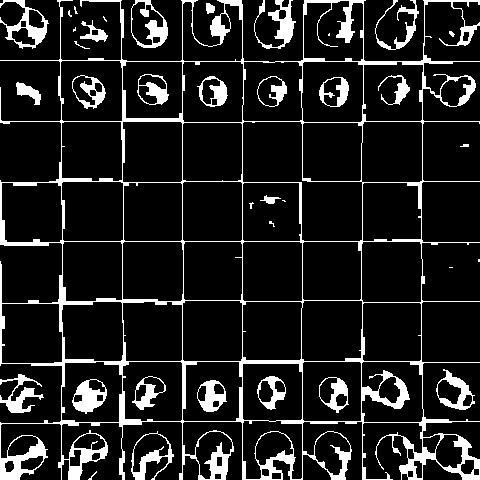
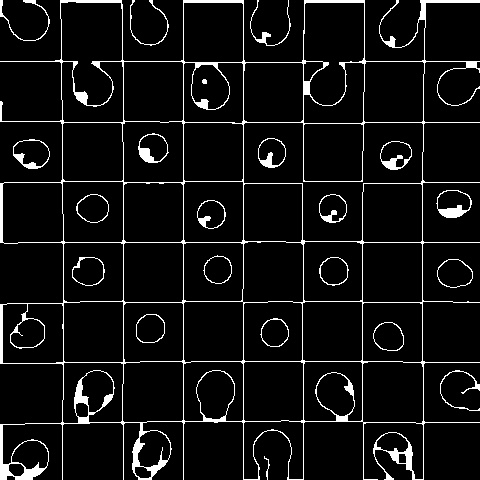
Fix inconsistent cam

diff --git a/vision/ChessCamera.py b/vision/ChessCamera.py
@@ -17,7 +17,13 @@ class ChessCamera(object):
         if RUN_ON_PI:
             self.camera = PiCamera()
             self.camera.resolution = (640,480)
-            time.sleep(0.5)
+            self.camera.iso = CAMERA_ISO
+            self.camera.exposure_compensation = CAMERA_COMP
+            time.sleep(1)
+            g = self.camera.awb_gains
+            self.camera.awb_mode = 'off'
+            self.camera.awb_gains = g
+            self.camera.exposure_mode = 'off'
 
         self.IMAGE_PATH = image
 
@@ -174,11 +180,12 @@ class ChessCamera(object):
         kernel_sharpen = np.array([[0,-1,0], [-1,5,-1], [0,-1,0]])
         clahe = cv2.createCLAHE(clipLimit=CLAHE_LIMIT, tileGridSize=(CLAHE_GRID,CLAHE_GRID))
 
-        img = clahe.apply(img)
+        #img = clahe.apply(img)
 
         #img = cv2.normalize(img, img, alpha=10, beta=150, norm_type=cv2.NORM_MINMAX)
         img = cv2.bilateralFilter(img, CANNY_BLUR, 17, 17)
-        img = cv2.filter2D(img, -1, kernel_sharpen)
+        #img = clahe.apply(img)
+        #img = cv2.filter2D(img, -1, kernel_sharpen)
         #img = cv2.GaussianBlur(img, (CANNY_BLUR,CANNY_BLUR), 0)
 
         if DEBUG : cv2.imwrite("output/gray.jpg", img)

diff --git a/vision/constants.py b/vision/constants.py
@@ -1,32 +1,35 @@
 DEBUG = True
-RUN_ON_PI = False
+RUN_ON_PI = True
 
 # BOARD CONSTANTS
 SQUARE_SIZE = 60
 BOARD_SIZE = SQUARE_SIZE * 8
 
+CAMERA_ISO = 1600
+CAMERA_COMP = 20
+
 # IMAGE PROCESS
 RESCALE_RATIO = 1.015
 
 CANNY_SIGMA = 0.8
-CANNY_LOWER = 80
-CANNY_UPPER = 100
-CANNY_BLUR = 13
+CANNY_LOWER = 20
+CANNY_UPPER = 200
+CANNY_BLUR = 11
 CANNY_GAMMA = 1
 
 CLAHE_LIMIT = 1.0
 CLAHE_GRID = 8
 
-EDGE_DILATE = 5
-EDGE_ERODE = 5
+EDGE_DILATE = 6
+EDGE_ERODE = 6
 
-MASK_DRAW = False
+MASK_DRAW = True
 MASK_BLUR = 9
 MASK_DILATE = 9
 MASK_DILATE_ITER = 3
 MASK_ERODE_ITER = 4
 MASK_COLOR = (0,0,0)
 
-THRESHOLD_PRESENCE = 150
+THRESHOLD_PRESENCE = 100
 THRESHOLD_COLOR = 100
-THRESHOLD_BINARY = 120
+THRESHOLD_BINARY = 100
